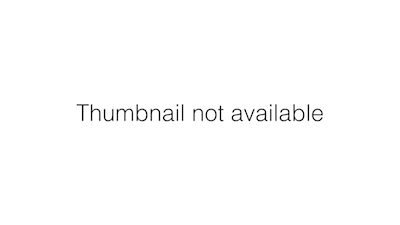
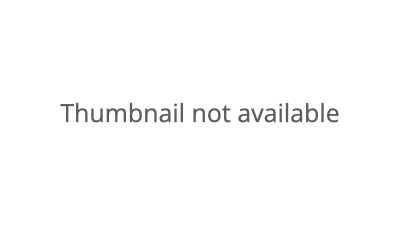
Image and CSS updates.

Changed region(s): [[0.15, 0.4356, 0.87, 0.56]]

diff --git a/src/css/structurizr-dark.css b/src/css/structurizr-dark.css
@@ -31,6 +31,10 @@
         background: #85BBF0;
     }
 
+    .img-thumbnail, .thumbnail {
+        background: #111111;
+    }
+
     .glyphicon-xs {
         filter: invert(1.0);
     }
@@ -60,6 +64,38 @@
     }
 
     .glyphicon-h2 {
+        filter: invert(1.0);
+    }
+
+    .icon-xs {
+        filter: invert(1.0);
+    }
+
+    .icon-sm {
+        filter: invert(1.0);
+    }
+
+    .icon-md {
+        filter: invert(1.0);
+    }
+
+    .icon-lg {
+        filter: invert(1.0);
+    }
+
+    .icon-xl {
+        filter: invert(1.0);
+    }
+
+    .icon-xxl {
+        filter: invert(1.0);
+    }
+
+    .icon-h1 {
+        filter: invert(1.0);
+    }
+
+    .icon-h2 {
         filter: invert(1.0);
     }
 
